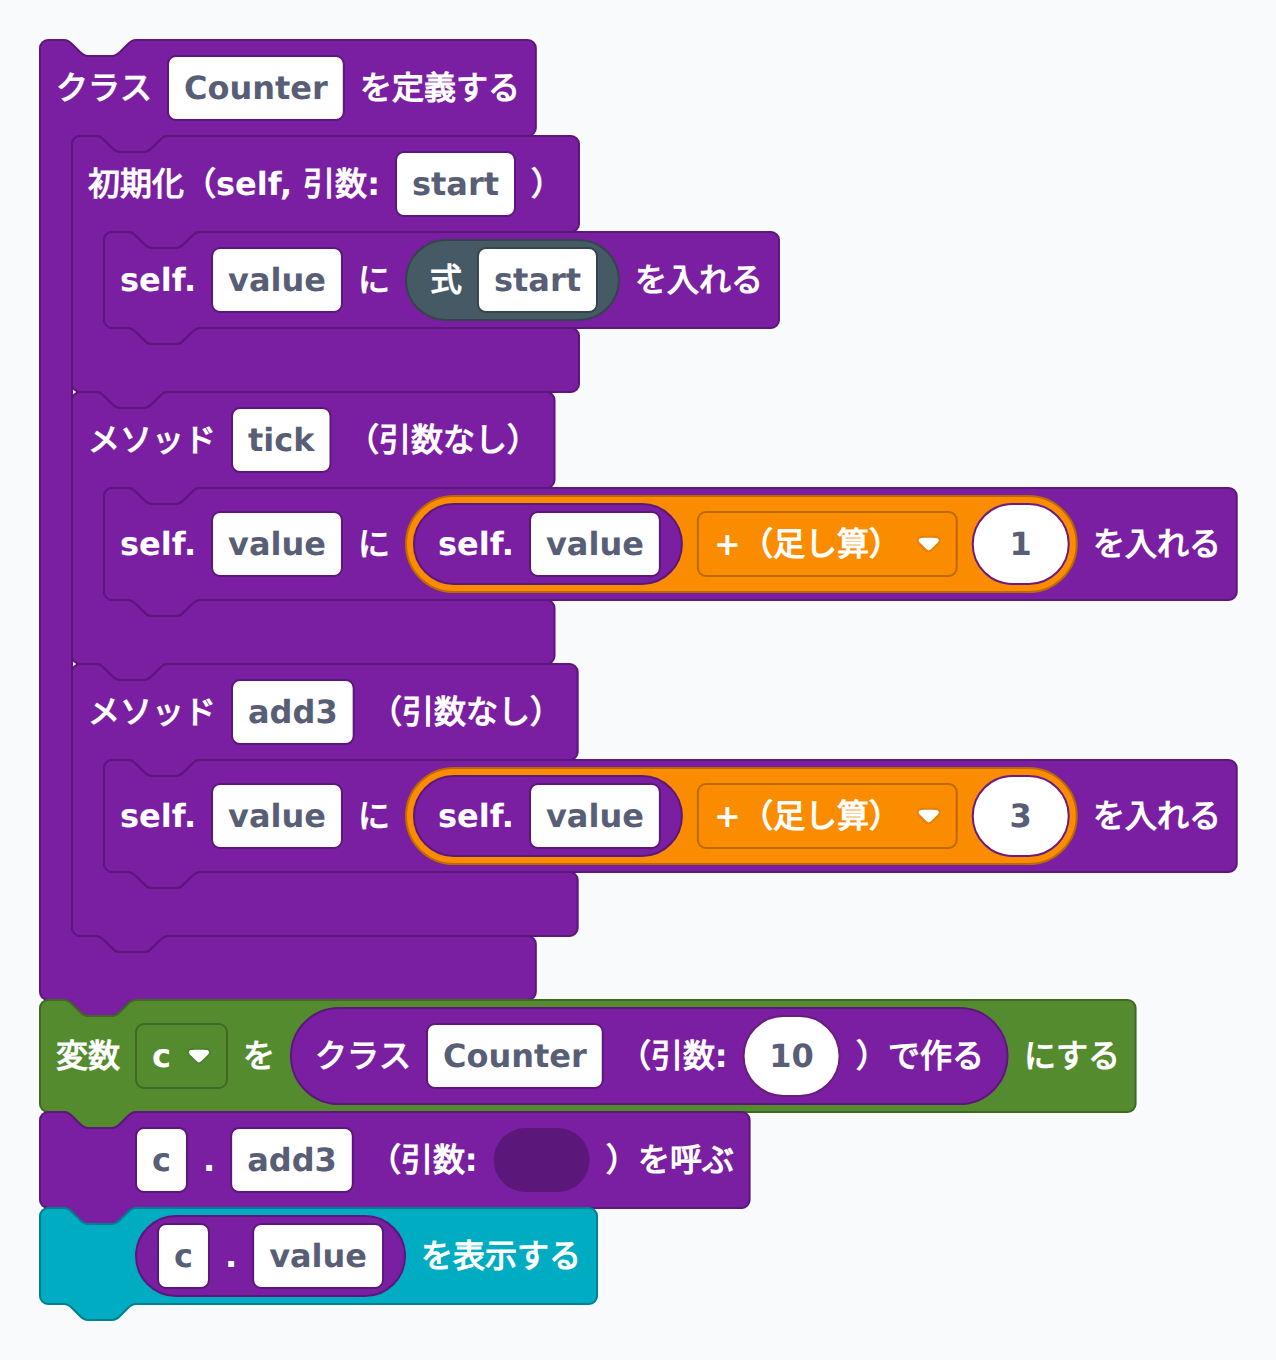
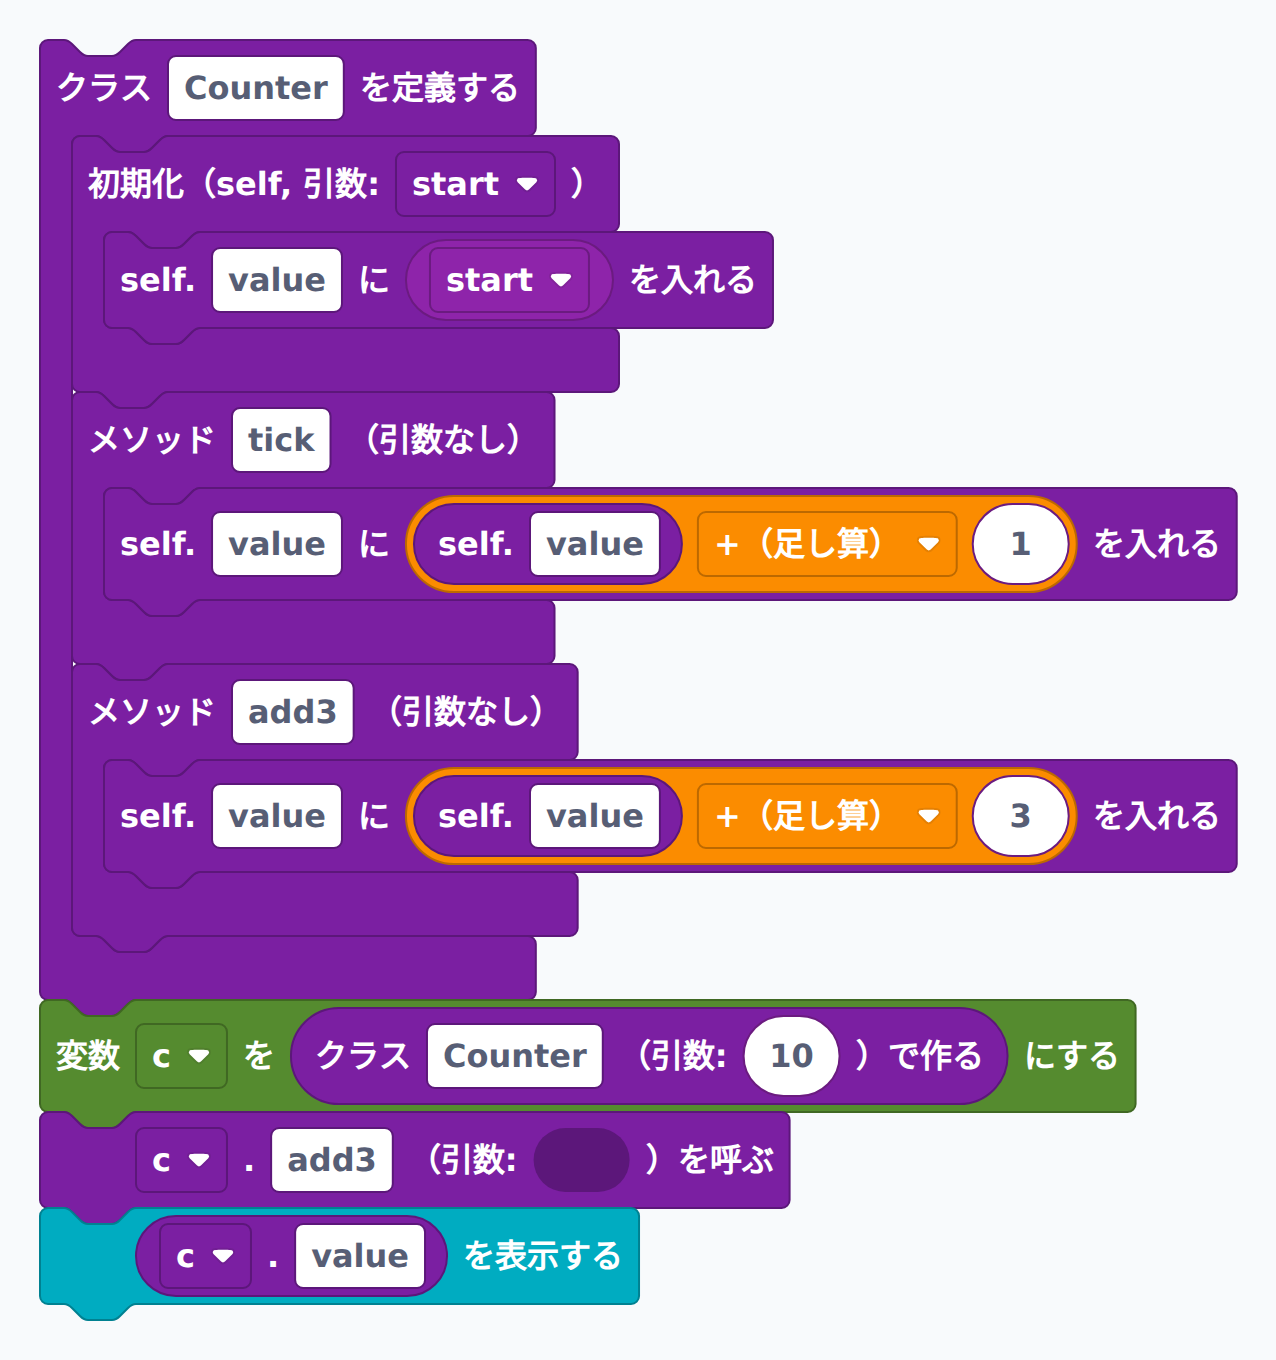
fix: クラスブロック引数・インスタンス名をFieldVariableに変更、手打ち式をブロック化
- py_class_init/init2/method1のPARAMをFieldVariable化（val_varで参照可能に）
- py_method_call_stmt/py_attr_getのINSTをFieldVariable化（変数プルダウン）
- XMLサンプル更新: py_custom_expr→val_var、文字列結合→py_str_concat+py_self_get
- スクリーンショット再生成（a/ans1: 1008px、b: 647px、c/ans2: 638px）

Changed region(s): [[0.0917, 0.8029, 0.6418, 0.9574], [0.3056, 0.0926, 0.6113, 0.3088]]

diff --git a/js/app.js b/js/app.js
@@ -430,15 +430,15 @@ document.addEventListener('DOMContentLoaded', function() {
         return `Rectの${attrs[block.getFieldValue('ATTR')] || '属性'}`;
       }
       case 'py_class_def':        return `クラス「${block.getFieldValue('NAME')}」を定義する`;
-      case 'py_class_init':       return `__init__（self, ${block.getFieldValue('PARAM')}）`;
-      case 'py_class_init2':      return `__init__（self, ${block.getFieldValue('PARAM1')}, ${block.getFieldValue('PARAM2')}）`;
+      case 'py_class_init':       return `__init__（self, ${getVarName(block, 'PARAM')}）`;
+      case 'py_class_init2':      return `__init__（self, ${getVarName(block, 'PARAM1')}, ${getVarName(block, 'PARAM2')}）`;
       case 'py_class_method':     return `メソッド「${block.getFieldValue('NAME')}」（引数なし）`;
-      case 'py_class_method1':    return `メソッド「${block.getFieldValue('NAME')}」（引数: ${block.getFieldValue('PARAM')}）`;
+      case 'py_class_method1':    return `メソッド「${block.getFieldValue('NAME')}」（引数: ${getVarName(block, 'PARAM')}）`;
       case 'py_self_set':         return `self.${block.getFieldValue('ATTR')} に代入`;
       case 'py_self_get':         return `self.${block.getFieldValue('ATTR')}`;
       case 'py_new_instance':     return `クラス「${block.getFieldValue('NAME')}」のインスタンスを作る`;
-      case 'py_method_call_stmt': return `${block.getFieldValue('INST')}.${block.getFieldValue('METHOD')}() を呼ぶ`;
-      case 'py_attr_get':         return `${block.getFieldValue('INST')}.${block.getFieldValue('ATTR')}`;
+      case 'py_method_call_stmt': return `${getVarName(block, 'INST')}.${block.getFieldValue('METHOD')}() を呼ぶ`;
+      case 'py_attr_get':         return `${getVarName(block, 'INST')}.${block.getFieldValue('ATTR')}`;
       case 'py_custom_stmt': return 'カスタムPython（文・1行・縦連結で複数行）';
       case 'py_custom_expr': return 'カスタムPython（式）';
       default:                 return block.type;
@@ -728,7 +728,7 @@ document.addEventListener('DOMContentLoaded', function() {
         return `${name}(${arg})`;
       }
       case 'py_attr_get': {
-        const inst = block.getFieldValue('INST');
+        const inst = getVarName(block, 'INST');
         const attr = block.getFieldValue('ATTR');
         return `${inst}.${attr}`;
       }
@@ -1331,15 +1331,15 @@ document.addEventListener('DOMContentLoaded', function() {
         break;
       }
       case 'py_class_init': {
-        const param = block.getFieldValue('PARAM');
+        const param = getVarName(block, 'PARAM');
         code = appendLocal(code, indent + `def __init__(self, ${param}):\n`);
         const body = statementToCode(block, 'BODY', indent + '    ');
         code = appendChildBody(code, body, indent + '    pass\n');
         break;
       }
       case 'py_class_init2': {
-        const p1 = block.getFieldValue('PARAM1');
-        const p2 = block.getFieldValue('PARAM2');
+        const p1 = getVarName(block, 'PARAM1');
+        const p2 = getVarName(block, 'PARAM2');
         code = appendLocal(code, indent + `def __init__(self, ${p1}, ${p2}):\n`);
         const body = statementToCode(block, 'BODY', indent + '    ');
         code = appendChildBody(code, body, indent + '    pass\n');
@@ -1354,7 +1354,7 @@ document.addEventListener('DOMContentLoaded', function() {
       }
       case 'py_class_method1': {
         const name  = block.getFieldValue('NAME');
-        const param = block.getFieldValue('PARAM');
+        const param = getVarName(block, 'PARAM');
         code = appendLocal(code, indent + `def ${name}(self, ${param}):\n`);
         const body = statementToCode(block, 'BODY', indent + '    ');
         code = appendChildBody(code, body, indent + '    pass\n');
@@ -1369,7 +1369,7 @@ document.addEventListener('DOMContentLoaded', function() {
         break;
       }
       case 'py_method_call_stmt': {
-        const inst   = block.getFieldValue('INST');
+        const inst   = getVarName(block, 'INST');
         const method = block.getFieldValue('METHOD');
         const ln = _emitCtx.line;
         registerExprBlocksAtLineFromInput(block, 'ARG', ln);

diff --git a/js/blocks/python_intro.js b/js/blocks/python_intro.js
@@ -451,7 +451,7 @@ Blockly.Blocks['py_class_init'] = {
   init: function() {
     this.appendDummyInput()
       .appendField('初期化（self, 引数:')
-      .appendField(new Blockly.FieldTextInput('name'), 'PARAM')
+      .appendField(new Blockly.FieldVariable('name'), 'PARAM')
       .appendField('）');
     this.appendStatementInput('BODY').setCheck(null);
     this.setPreviousStatement(true, null);
@@ -466,9 +466,9 @@ Blockly.Blocks['py_class_init2'] = {
   init: function() {
     this.appendDummyInput()
       .appendField('初期化（self, 引数:')
-      .appendField(new Blockly.FieldTextInput('width'), 'PARAM1')
+      .appendField(new Blockly.FieldVariable('width'), 'PARAM1')
       .appendField(',')
-      .appendField(new Blockly.FieldTextInput('height'), 'PARAM2')
+      .appendField(new Blockly.FieldVariable('height'), 'PARAM2')
       .appendField('）');
     this.appendStatementInput('BODY').setCheck(null);
     this.setPreviousStatement(true, null);
@@ -500,7 +500,7 @@ Blockly.Blocks['py_class_method1'] = {
       .appendField('メソッド')
       .appendField(new Blockly.FieldTextInput('my_method'), 'NAME')
       .appendField('（引数:')
-      .appendField(new Blockly.FieldTextInput('param'), 'PARAM')
+      .appendField(new Blockly.FieldVariable('param'), 'PARAM')
       .appendField('）');
     this.appendStatementInput('BODY').setCheck(null);
     this.setPreviousStatement(true, null);
@@ -559,7 +559,7 @@ Blockly.Blocks['py_new_instance'] = {
 Blockly.Blocks['py_method_call_stmt'] = {
   init: function() {
     this.appendDummyInput()
-      .appendField(new Blockly.FieldTextInput('obj'), 'INST')
+      .appendField(new Blockly.FieldVariable('obj'), 'INST')
       .appendField('.')
       .appendField(new Blockly.FieldTextInput('method'), 'METHOD')
       .appendField('（引数:');
@@ -577,7 +577,7 @@ Blockly.Blocks['py_method_call_stmt'] = {
 Blockly.Blocks['py_attr_get'] = {
   init: function() {
     this.appendDummyInput()
-      .appendField(new Blockly.FieldTextInput('obj'), 'INST')
+      .appendField(new Blockly.FieldVariable('obj'), 'INST')
       .appendField('.')
       .appendField(new Blockly.FieldTextInput('attr'), 'ATTR');
     this.setOutput(true, null);
